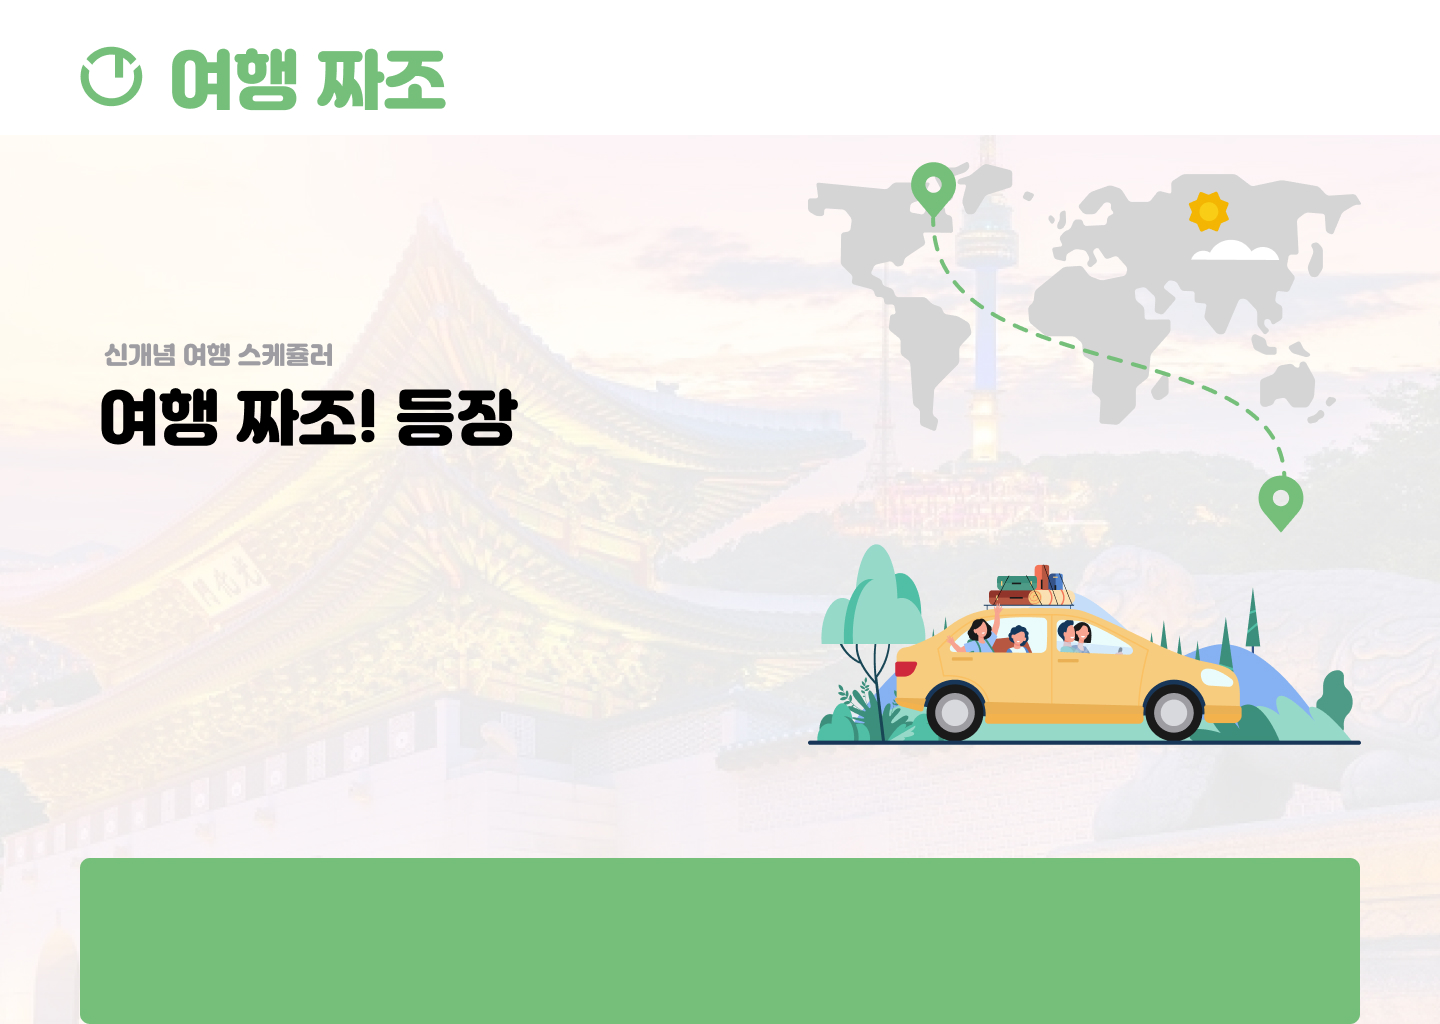
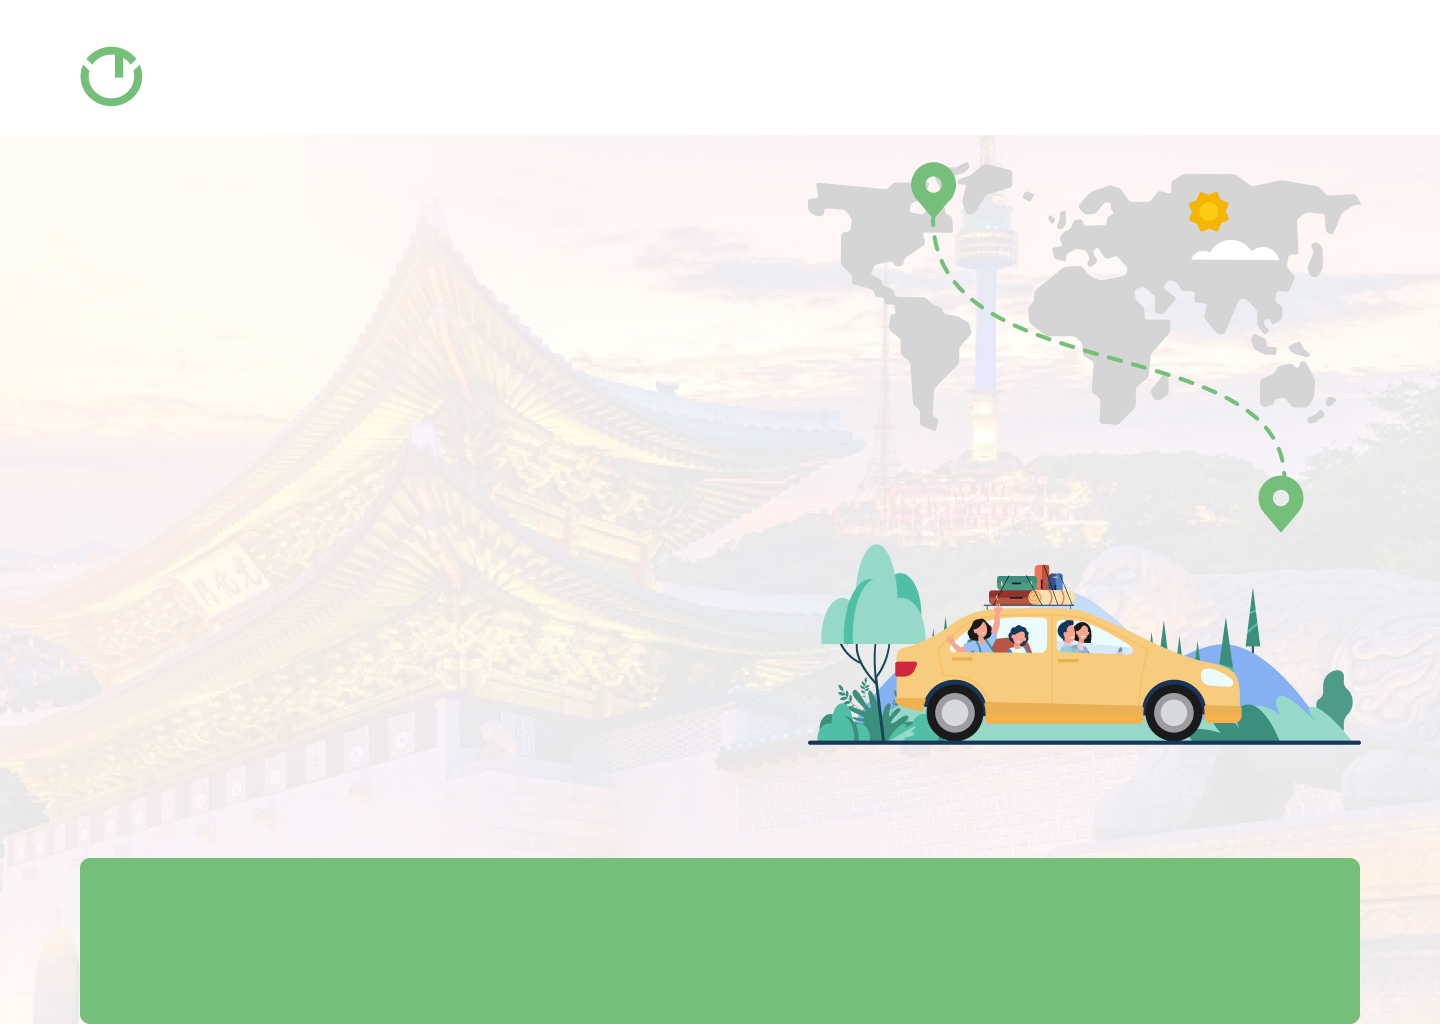
v3

Changed region(s): [[0.0625, 0.3125, 0.375, 0.4375], [0.0938, 0.0312, 0.3125, 0.125]]

diff --git a/main.css b/main.css
@@ -1,3 +1,17 @@
+@font-face {
+  font-family: 'JalnanGothic';
+  src: url('https://cdn.jsdelivr.net/gh/projectnoonnu/noonfonts_231029@1.1/JalnanGothic.woff') format('woff');
+  font-weight: normal;
+  font-style: normal;
+}
+
+@font-face {
+  font-family: 'yg-jalnan';
+  src: url('https://cdn.jsdelivr.net/gh/projectnoonnu/noonfonts_four@1.2/JalnanOTF00.woff') format('woff');
+  font-weight: normal;
+  font-style: normal;
+}
+
 body {
   background-image: url("image/main_image/main_background.jpg");
   background-size: 1440px 1024px;
@@ -19,7 +33,7 @@ body {
   position: absolute;
   top: 899px;
   left: 128px;
-  font-family: Jalnan Gothic TTF;
+  font-family: JalnanGothic;
   font-weight: Regular;
   font-size: 24px;
   opacity: 1;
@@ -42,4 +56,43 @@ body {
   position: absolute;
   top: 705px;
   left: 370px;
+}
+
+.title_explain {
+  width: 550px;
+  color: rgba(158,157,162,1);
+  position: absolute;
+  top: 341px;
+  left: 104px;
+  font-family: Jalnan;
+  font-weight: Regular;
+  font-size: 24px;
+  opacity: 1;
+  text-align: left;
+}
+
+.title {
+  width: 419px;
+  color: rgba(0,0,0,1);
+  position: absolute;
+  top: 380px;
+  left: 98px;
+  font-family: Jalnan;
+  font-weight: Regular;
+  font-size: 60px;
+  opacity: 1;
+  text-align: left;
+}
+
+.miniTitle {
+  width: 640px;
+  color: rgba(117,191,122,1);
+  position: absolute;
+  top: 40px;
+  left: 165px;
+  font-family: Jalnan;
+  font-weight: Regular;
+  font-size: 65px;
+  opacity: 1;
+  text-align: left;
 }

diff --git a/main.html b/main.html
@@ -2,12 +2,13 @@
 <html>
     <head>
         <title>여행 짜조</title>
-        <link href="https://fonts.googleapis.com/css?family=Jalnan&display=swap" rel="stylesheet" />
-        <link href="https://fonts.googleapis.com/css?family=Jalnan+Gothic+TTF&display=swap" rel="stylesheet" />
         <link href="main.css" rel="stylesheet" />
     </head>
     <body>
+        <span class="miniTitle">여행 짜조</span>
         <span class="login"></span>
+        <span class="title_explain">신개념 여행 스케쥴러</span>
+        <span class="title">여행 짜조! 등장</span>
         <span class="developer">Developers: 김유민 | 김민선 | 박채현 | 서정훈</span>
         <span class="checklist"></span>
         <span class="goschedule"></span>
